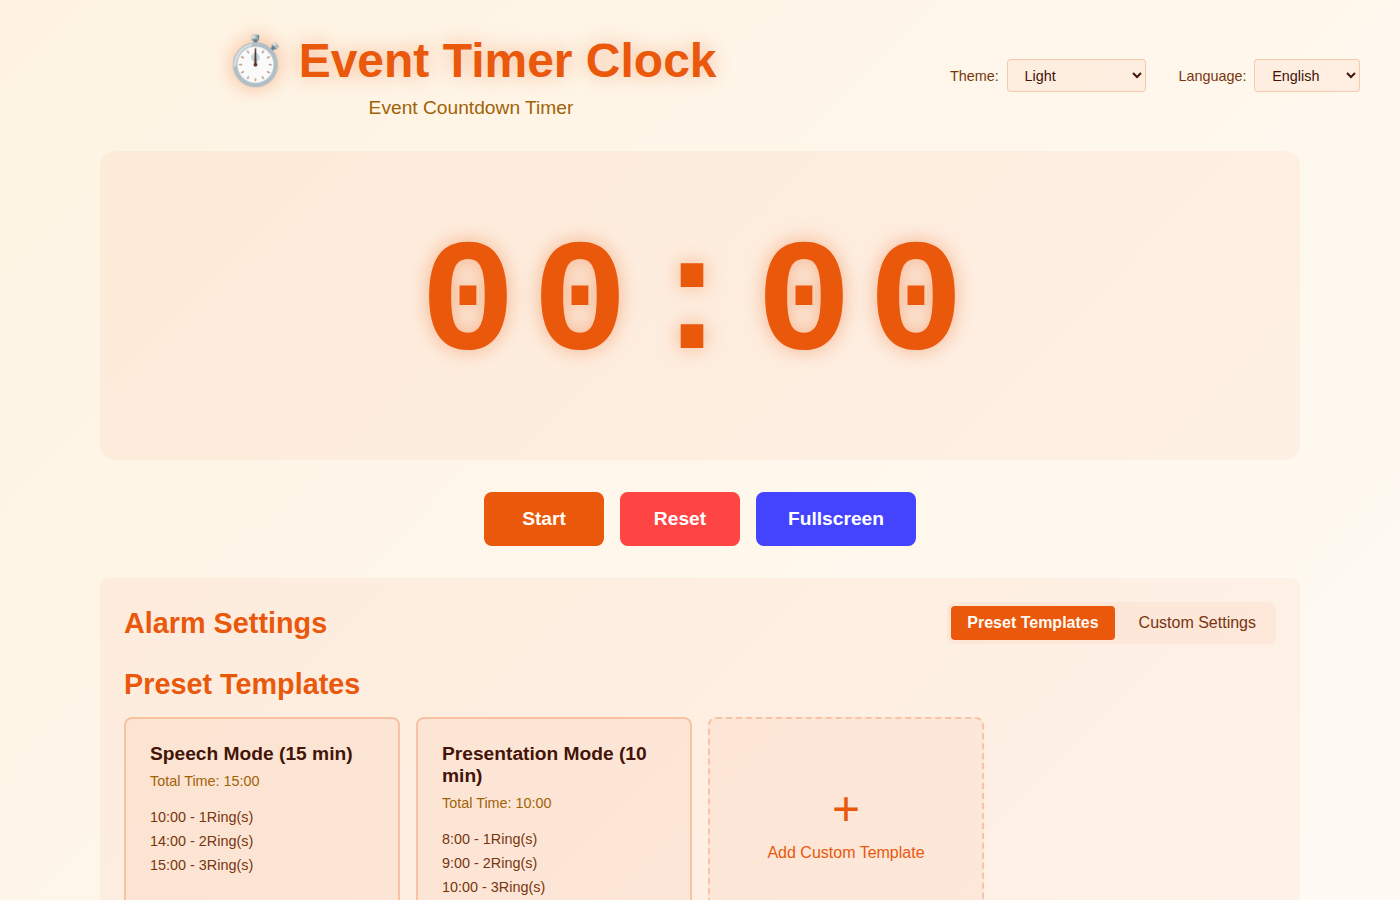
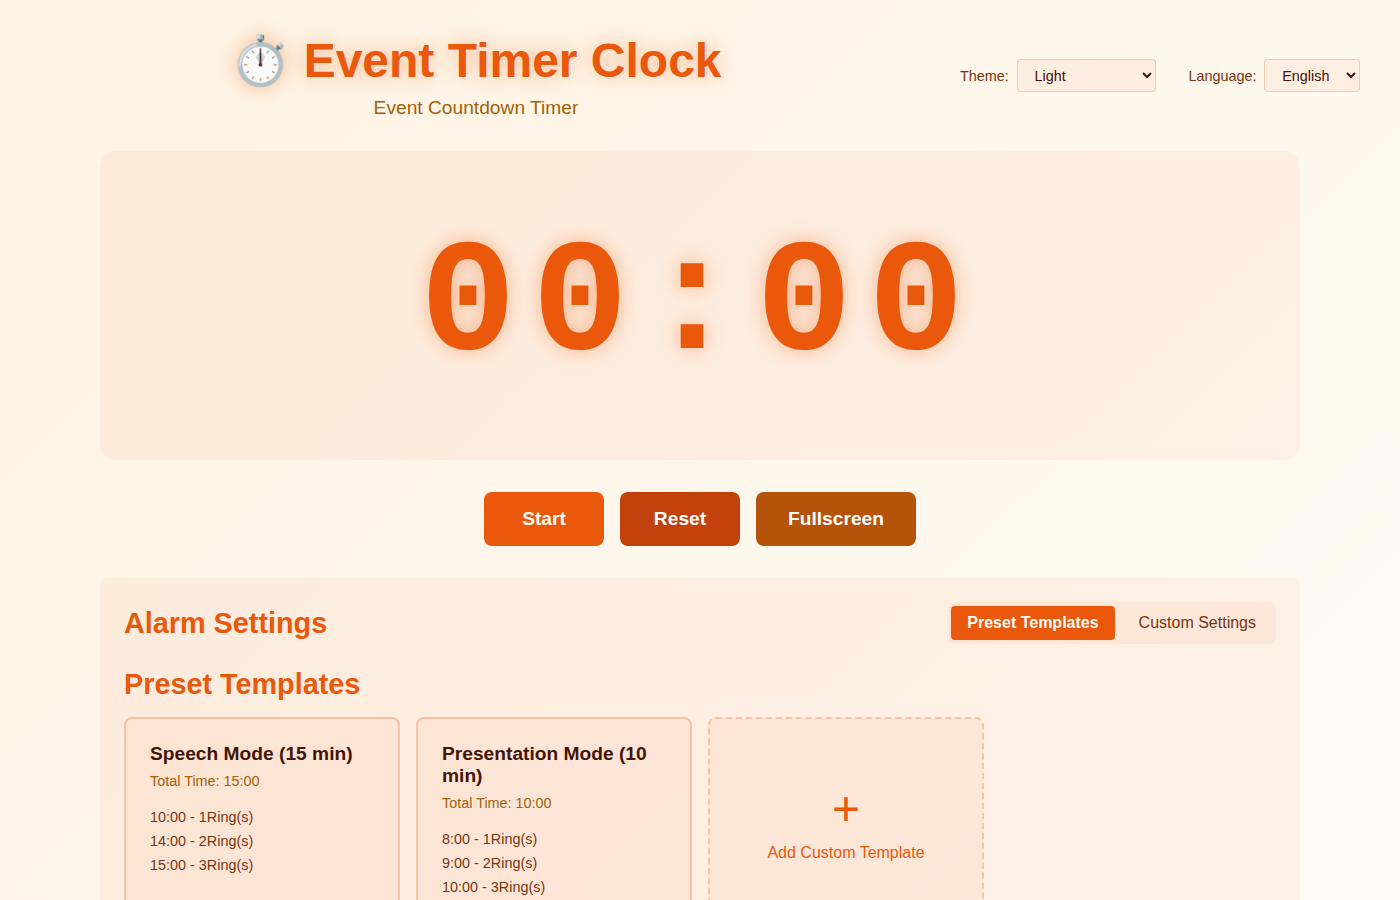
Update button colors to match warm light theme

diff --git a/src/components/ControlButtons.vue b/src/components/ControlButtons.vue
@@ -116,34 +116,34 @@ onUnmounted(() => {
 }
 
 .btn-start:hover {
-  background: #00dd77;
+  background: var(--btn-start-hover);
 }
 
 .btn-pause {
-  background: #ffa500;
+  background: var(--btn-pause-bg);
   color: var(--bg-primary);
 }
 
 .btn-pause:hover {
-  background: #ff9500;
+  background: var(--btn-pause-hover);
 }
 
 .btn-reset {
-  background: #ff4444;
+  background: var(--btn-reset-bg);
   color: white;
 }
 
 .btn-reset:hover {
-  background: #dd3333;
+  background: var(--btn-reset-hover);
 }
 
 .btn-fullscreen {
-  background: #4444ff;
+  background: var(--btn-fullscreen-bg);
   color: white;
 }
 
 .btn-fullscreen:hover {
-  background: #3333dd;
+  background: var(--btn-fullscreen-hover);
 }
 
 @media (max-width: 768px) {

diff --git a/src/style.css b/src/style.css
@@ -22,6 +22,13 @@
   --error-color: #ff4444;
   --error-bg: rgba(255, 68, 68, 0.7);
   --info-color: #4444ff;
+  --btn-start-hover: #00dd77;
+  --btn-pause-bg: #ffa500;
+  --btn-pause-hover: #ff9500;
+  --btn-reset-bg: #ff4444;
+  --btn-reset-hover: #dd3333;
+  --btn-fullscreen-bg: #4444ff;
+  --btn-fullscreen-hover: #3333dd;
 }
 
 /* Light theme */
@@ -44,6 +51,13 @@
   --error-color: #dc2626;
   --error-bg: rgba(220, 38, 38, 0.12);
   --info-color: #2563eb;
+  --btn-start-hover: #c2410c;
+  --btn-pause-bg: #d97706;
+  --btn-pause-hover: #b45309;
+  --btn-reset-bg: #c2410c;
+  --btn-reset-hover: #9a3412;
+  --btn-fullscreen-bg: #b45309;
+  --btn-fullscreen-hover: #92400e;
 }
 
 * {
